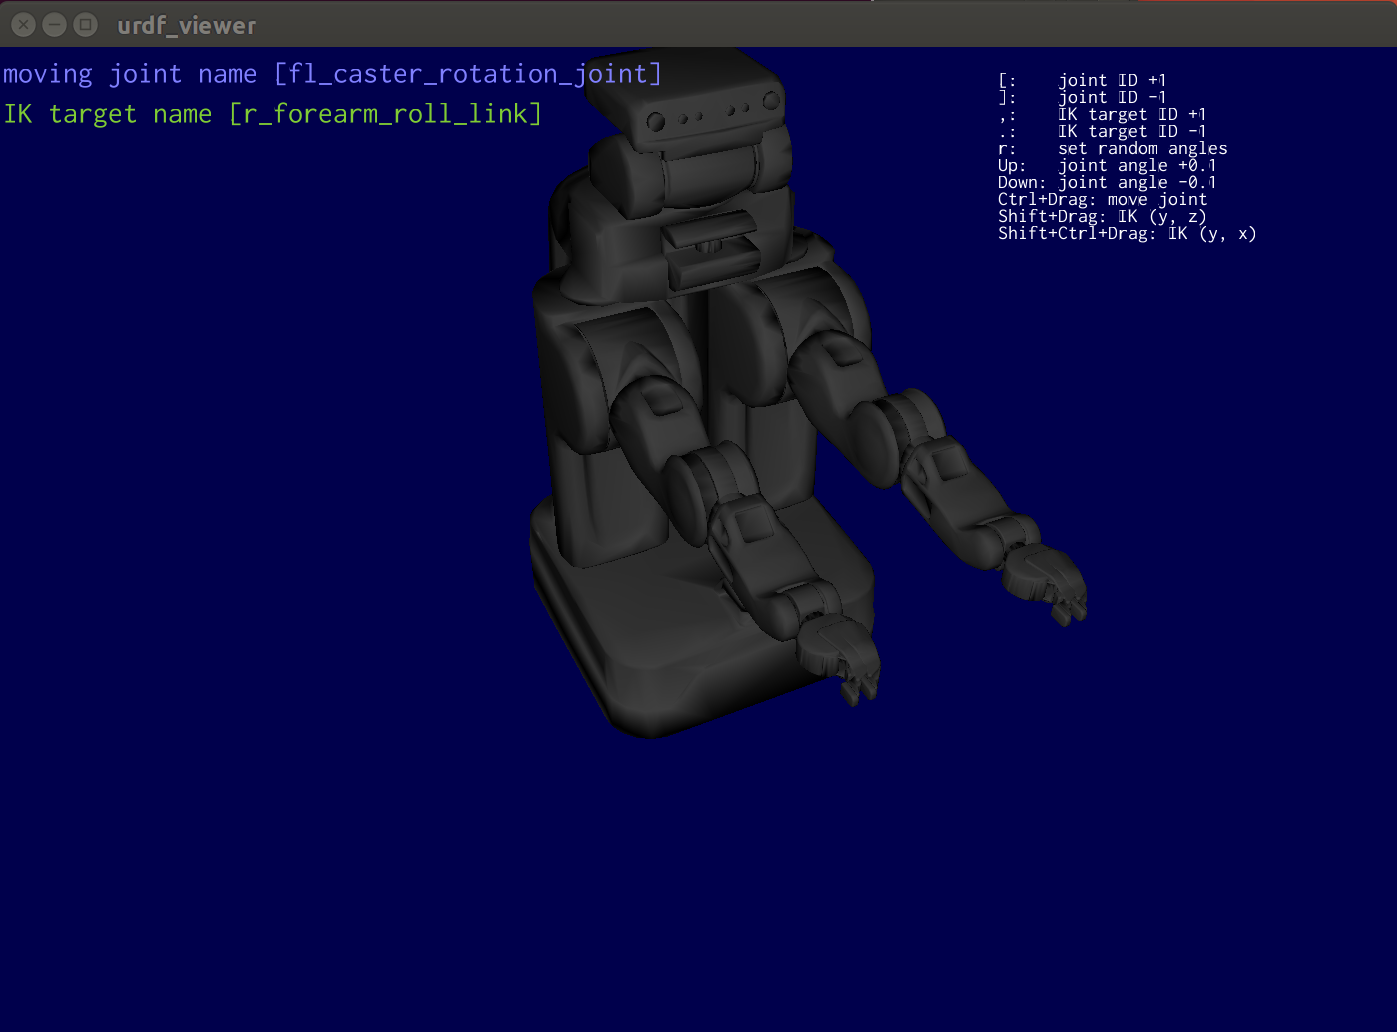
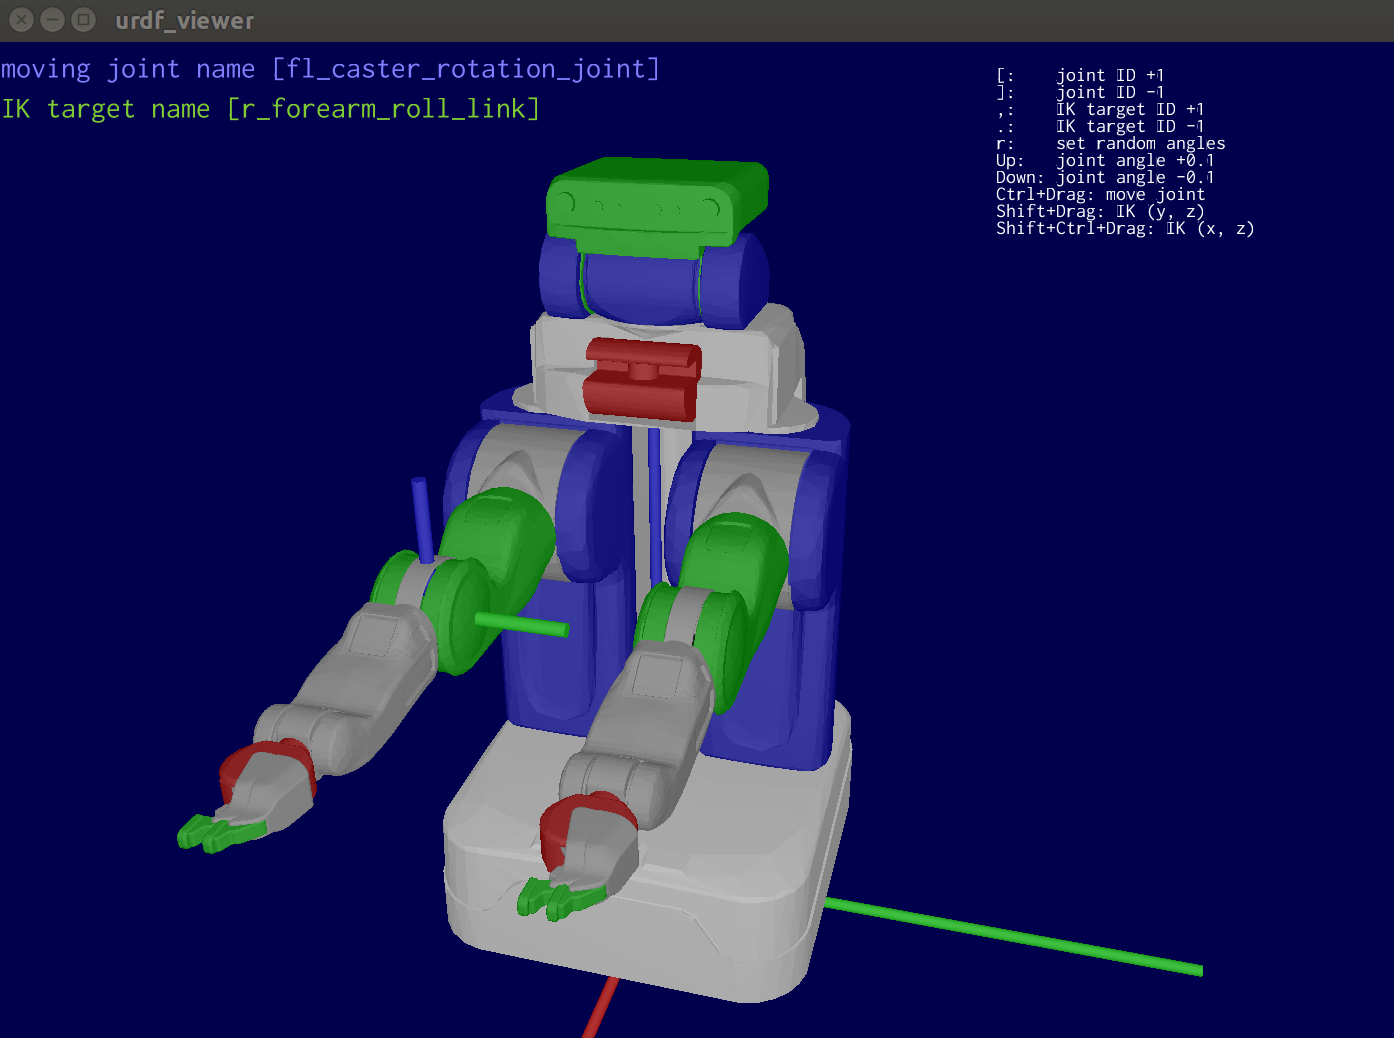
Use assimp only (remove meshlabserver, assimp command support)

Changed region(s): [[0.0, 0.0, 1.0, 1.0]]

diff --git a/src/lib.rs b/src/lib.rs
@@ -32,77 +32,57 @@ use std::cell::RefCell;
 use regex::Regex;
 use std::collections::HashMap;
 use std::path::Path;
-use std::path::PathBuf;
 use std::process::Command;
 use std::rc::Rc;
 
-fn get_cache_dir() -> &'static str {
-    "/tmp/urdf_viz/"
-}
+mod errors;
+pub use errors::*;
 
-pub fn load_mesh<P>(filename: P) -> Result<Vec<Rc<RefCell<Mesh>>>, String>
+pub fn load_mesh<P>(filename: P) -> Result<Rc<RefCell<Mesh>>>
     where P: AsRef<Path>
 {
     let mut importer = Importer::new();
     importer.pre_transform_vertices(|x| x.enable = true);
     importer.collada_ignore_up_direction(true);
-    if let Some(file) = filename.as_ref().to_str() {
-        if let Ok(as_scene) = importer.read_file(file) {
-            Ok(convert_assimp_scene_to_kiss3d_meshes(as_scene))
-        } else {
-            Err(format!("failed to read file in assimp {}", file))
-        }
-    } else {
-        Err("failed to convert to &str filename".to_owned())
+    let file_string = filename.as_ref()
+        .to_str()
+        .ok_or("faild to get string from path")?;
+    Ok(convert_assimp_scene_to_kiss3d_mesh(importer.read_file(file_string)?))
+}
+
+fn convert_assimp_scene_to_kiss3d_mesh(scene: assimp::Scene) -> Rc<RefCell<Mesh>> {
+    let mut vertices = Vec::new();
+    let mut indices = Vec::new();
+    for mesh in scene.mesh_iter() {
+        vertices.extend(mesh.vertex_iter()
+                            .map(|v| na::Point3::new(v.x, v.y, v.z)));
+        indices.extend(mesh.face_iter()
+                           .filter_map(|f| if f.num_indices == 3 {
+                                           Some(na::Point3::new(f[0], f[1], f[2]))
+                                       } else {
+                                           None
+                                       }));
     }
+    Rc::new(RefCell::new(Mesh::new(vertices, indices, None, None, false)))
 }
 
-fn convert_assimp_scene_to_kiss3d_meshes(scene: assimp::Scene) -> Vec<Rc<RefCell<Mesh>>> {
-    scene
-        .mesh_iter()
-        .map(|mesh| {
-            let vertices = mesh.vertex_iter()
-                .map(|v| na::Point3::new(v.x, v.y, v.z))
-                .collect::<Vec<_>>();
-            let indices = mesh.face_iter()
-                .filter_map(|f| if f.num_indices == 3 {
-                                Some(na::Point3::new(f[0], f[1], f[2]))
-                            } else {
-                                None
-                            })
-                .collect();
-            Rc::new(RefCell::new(Mesh::new(vertices, indices, None, None, false)))
-        })
-        .collect()
-}
-
-fn create_parent_dir(new_path: &Path) -> Result<(), std::io::Error> {
-    let new_parent_dir = new_path.parent().unwrap();
-    if !new_parent_dir.is_dir() {
-        info!("creating dir {}", new_parent_dir.to_str().unwrap());
-        std::fs::create_dir_all(new_parent_dir)?;
-    }
-    Ok(())
-}
-
-pub fn convert_xacro_to_urdf<P>(filename: P, new_path: P) -> Result<(), std::io::Error>
+pub fn convert_xacro_to_urdf<P>(filename: P) -> Result<String>
     where P: AsRef<Path>
 {
-    create_parent_dir(new_path.as_ref())?;
     let output = Command::new("rosrun")
         .args(&["xacro",
                 "xacro",
                 "--inorder",
-                filename.as_ref().to_str().unwrap(),
-                "-o",
-                new_path.as_ref().to_str().unwrap()])
+                filename.as_ref()
+                    .to_str()
+                    .ok_or("failed to get str fro filename")?])
         .output()
         .expect("failed to execute xacro. install by apt-get install ros-*-xacro");
     if output.status.success() {
-        Ok(())
+        Ok(String::from_utf8(output.stdout)?)
     } else {
         error!("{}", String::from_utf8(output.stderr).unwrap());
-        Err(std::io::Error::new(std::io::ErrorKind::Other, "faild to xacro"))
+        Err(Error::Other("faild to xacro".to_owned()))
     }
 }
 
@@ -143,7 +123,7 @@ fn add_geometry(visual: &urdf_rs::Visual,
                 base_dir: &Path,
                 window: &mut Window)
                 -> Option<SceneNode> {
-    let mut geom = match visual.geometry {
+    match visual.geometry {
         urdf_rs::Geometry::Box { ref size } => {
             Some(window.add_cube(size[0] as f32, size[1] as f32, size[2] as f32))
         }
@@ -163,23 +143,13 @@ fn add_geometry(visual: &urdf_rs::Visual,
             }
             let na_scale = na::Vector3::new(scale[0] as f32, scale[1] as f32, scale[2] as f32);
 
-            if let Ok(meshes) = load_mesh(path) {
-                let mut group = window.add_group();
-                for mesh in meshes {
-                    group.add_mesh(mesh.clone(), na_scale);
-                }
-                Some(group)
+            if let Ok(mesh) = load_mesh(path) {
+                Some(window.add_mesh(mesh, na_scale))
             } else {
                 None
             }
         }
-    };
-    let rgba = &visual.material.color.rgba;
-    match geom {
-        Some(ref mut obj) => obj.set_color(rgba[0] as f32, rgba[1] as f32, rgba[2] as f32),
-        None => return None,
     }
-    geom
 }
 
 pub struct Viewer {
@@ -206,16 +176,33 @@ impl Viewer {
             original_colors: HashMap::new(),
         }
     }
-    pub fn setup(&mut self, base_dir: &Path) {
-        LogStream::set_verbose_logging(true);
-        let mut log_stream = LogStream::stdout();
-        log_stream.attach();
+    pub fn setup(&mut self, base_dir: &Path, is_verbose: bool) {
+        if is_verbose {
+            LogStream::set_verbose_logging(true);
+            let mut log_stream = LogStream::stdout();
+            log_stream.attach();
+        }
         self.window
             .set_light(kiss3d::light::Light::StickToCamera);
 
         self.window.set_background_color(0.0, 0.0, 0.3);
         for l in &self.urdf_robot.links {
-            if let Some(geom) = add_geometry(&l.visual, base_dir, &mut self.window) {
+            if let Some(mut geom) = add_geometry(&l.visual, base_dir, &mut self.window) {
+                match self.urdf_robot
+                          .materials
+                          .iter()
+                          .find(|mat| mat.name == l.visual.material.name)
+                          .map(|mat| mat.clone()) {
+                    Some(ref material) => {
+                        geom.set_color(material.color.rgba[0] as f32,
+                                       material.color.rgba[1] as f32,
+                                       material.color.rgba[2] as f32)
+                    }
+                    None => {
+                        let rgba = &l.visual.material.color.rgba;
+                        geom.set_color(rgba[0] as f32, rgba[1] as f32, rgba[2] as f32);
+                    }
+                }
                 self.scenes.insert(l.name.to_string(), geom);
             } else {
                 error!("failed to create for {:?}", l.visual);
@@ -303,22 +290,6 @@ impl Viewer {
     }
 }
 
-// TODO: Use error chain
-pub fn convert_xacro_if_needed_and_get_path(input_path: &Path) -> Result<PathBuf, std::io::Error> {
-    if let Some(ext) = input_path.extension() {
-        if ext == "xacro" {
-            let abs_urdf_path = get_cache_dir().to_string() +
-                                input_path.with_extension("urdf").to_str().unwrap();
-            let tmp_urdf_path = Path::new(&abs_urdf_path);
-            convert_xacro_to_urdf(&input_path, &tmp_urdf_path)?;
-            Ok(tmp_urdf_path.to_owned())
-        } else {
-            Ok(input_path.to_owned())
-        }
-    } else {
-        Err(std::io::Error::new(std::io::ErrorKind::Other, "failed to get extension"))
-    }
-}
 
 #[derive(StructOpt, Debug)]
 #[structopt(name = "urdf_viz", about = "Option for visualizing urdf")]
@@ -327,6 +298,8 @@ pub struct Opt {
                 help = "limit the dof for ik to avoid use fingers as end effectors",
                 default_value = "6")]
     pub ik_dof: usize,
+    #[structopt(short = "v", long = "verbose", help = "show assimp log")]
+    pub verbose: bool,
     #[structopt(help = "Input urdf or xacro")]
     pub input_urdf_or_xacro: String,
 }

diff --git a/src/urdf_viewer.rs b/src/urdf_viewer.rs
@@ -105,22 +105,21 @@ impl UrdfViewerApp {
             .unwrap_or_else(|| {
                                 panic!("failed to get base dir of {}", opt.input_urdf_or_xacro);
                             });
-
-        let urdf_path = urdf_viz::convert_xacro_if_needed_and_get_path(input_path)
-            .unwrap_or_else(|err| {
-                                panic!("failed to try to convert or get input path {}: {}",
-                                       opt.input_urdf_or_xacro,
-                                       err);
-                            });
         let urdf_robo =
-            urdf_rs::read_file(&urdf_path).unwrap_or_else(|err| {
-                                                              panic!("failed to read file {:?}: {}",
-                                                                     urdf_path,
-                                                                     err)
-                                                          });
+            if input_path
+                       .extension()
+                       .unwrap_or_else(|| panic!("failed to get extension")) ==
+                   "xacro" {
+                    let urdf_utf = urdf_viz::convert_xacro_to_urdf(input_path)
+                        .unwrap_or_else(|err| panic!("failed to convert xacro {:?}", err));
+                    urdf_rs::read_from_string(&urdf_utf)
+                } else {
+                    urdf_rs::read_file(&input_path)
+                }
+                .unwrap_or_else(|err| panic!("failed to read file {:?}: {}", input_path, err));
         let mut robot = k::urdf::create_tree::<f32>(&urdf_robo);
         let mut viewer = urdf_viz::Viewer::new(urdf_robo);
-        viewer.setup(&base_dir);
+        viewer.setup(&base_dir, opt.verbose);
         let base_transform =
             na::Isometry3::from_parts(na::Translation3::new(0.0, 0.0, 0.0),
                                       na::UnitQuaternion::from_euler_angles(0.0, 1.57, 1.57));

diff --git a/README.md b/README.md
@@ -14,7 +14,7 @@ If you are using rust-lang already and `cargo` is installed, you can install by 
 #### Install urdf-viz
 
 ```bash
-$ cargo install urdf_viz
+$ cargo install urdf-viz
 ```
 
 #### (FYI) Install `cargo`
@@ -23,25 +23,21 @@ $ cargo install urdf_viz
 $ curl https://sh.rustup.rs -sSf | sh
 ```
 
+and follow the instruction of the installer.
+
+
 ### Install by download binary from github
 
 If you don't want to install `rust` and `cargo`, you might be able to find
 binary for Ubuntu16.04 64bit [here](https://github.com/OTL/urdf-viz/releases).
-
-Install mesh converter commands (optional)
----------------------------------------------
-
-```bash
-$ sudo apt-get install meshlab assimp-utils
-```
 
 
 Command line
 --------------
 
 `urdf_viewer` command will be installed by cargo.
-It needs `rosrun`, `rospack` to resolve `package://` in `<mesh>`, and
-it uses `xacro` to convert `.xacro` file.
+It needs `rosrun` and `rospack` to resolve `package://` in `<mesh>` tag, and
+it uses `xacro` to convert `.xacro` file into urdf file.
 It means you need `$ source ~/catkin_ws/devel/setup.bash` before using
 `urdf_viewer`.
 
@@ -56,17 +52,7 @@ It will be converted by `rosrun xacro xacro` inside of `urdf_viewer`.
 $ urdf_viewer XACRO_FILE.urdf.xacro
 ```
 
-The default mesh converter is `assimp`. Sometimes it fails to create currect
-meshes. (for example, `nao`, `pepper` models fails)
-
-If you failed to convert mesh files, try `-m` option to use `meshlabserver`.
-(It needs meshlab)
-
-```bash
-$ urdf_viewer -m URDF_FILE.urdf
-```
-
-For other options, please read `-h` option.
+For other options, please read the output of `-h` option.
 
 ```bash
 $ urdf_viewer -h
